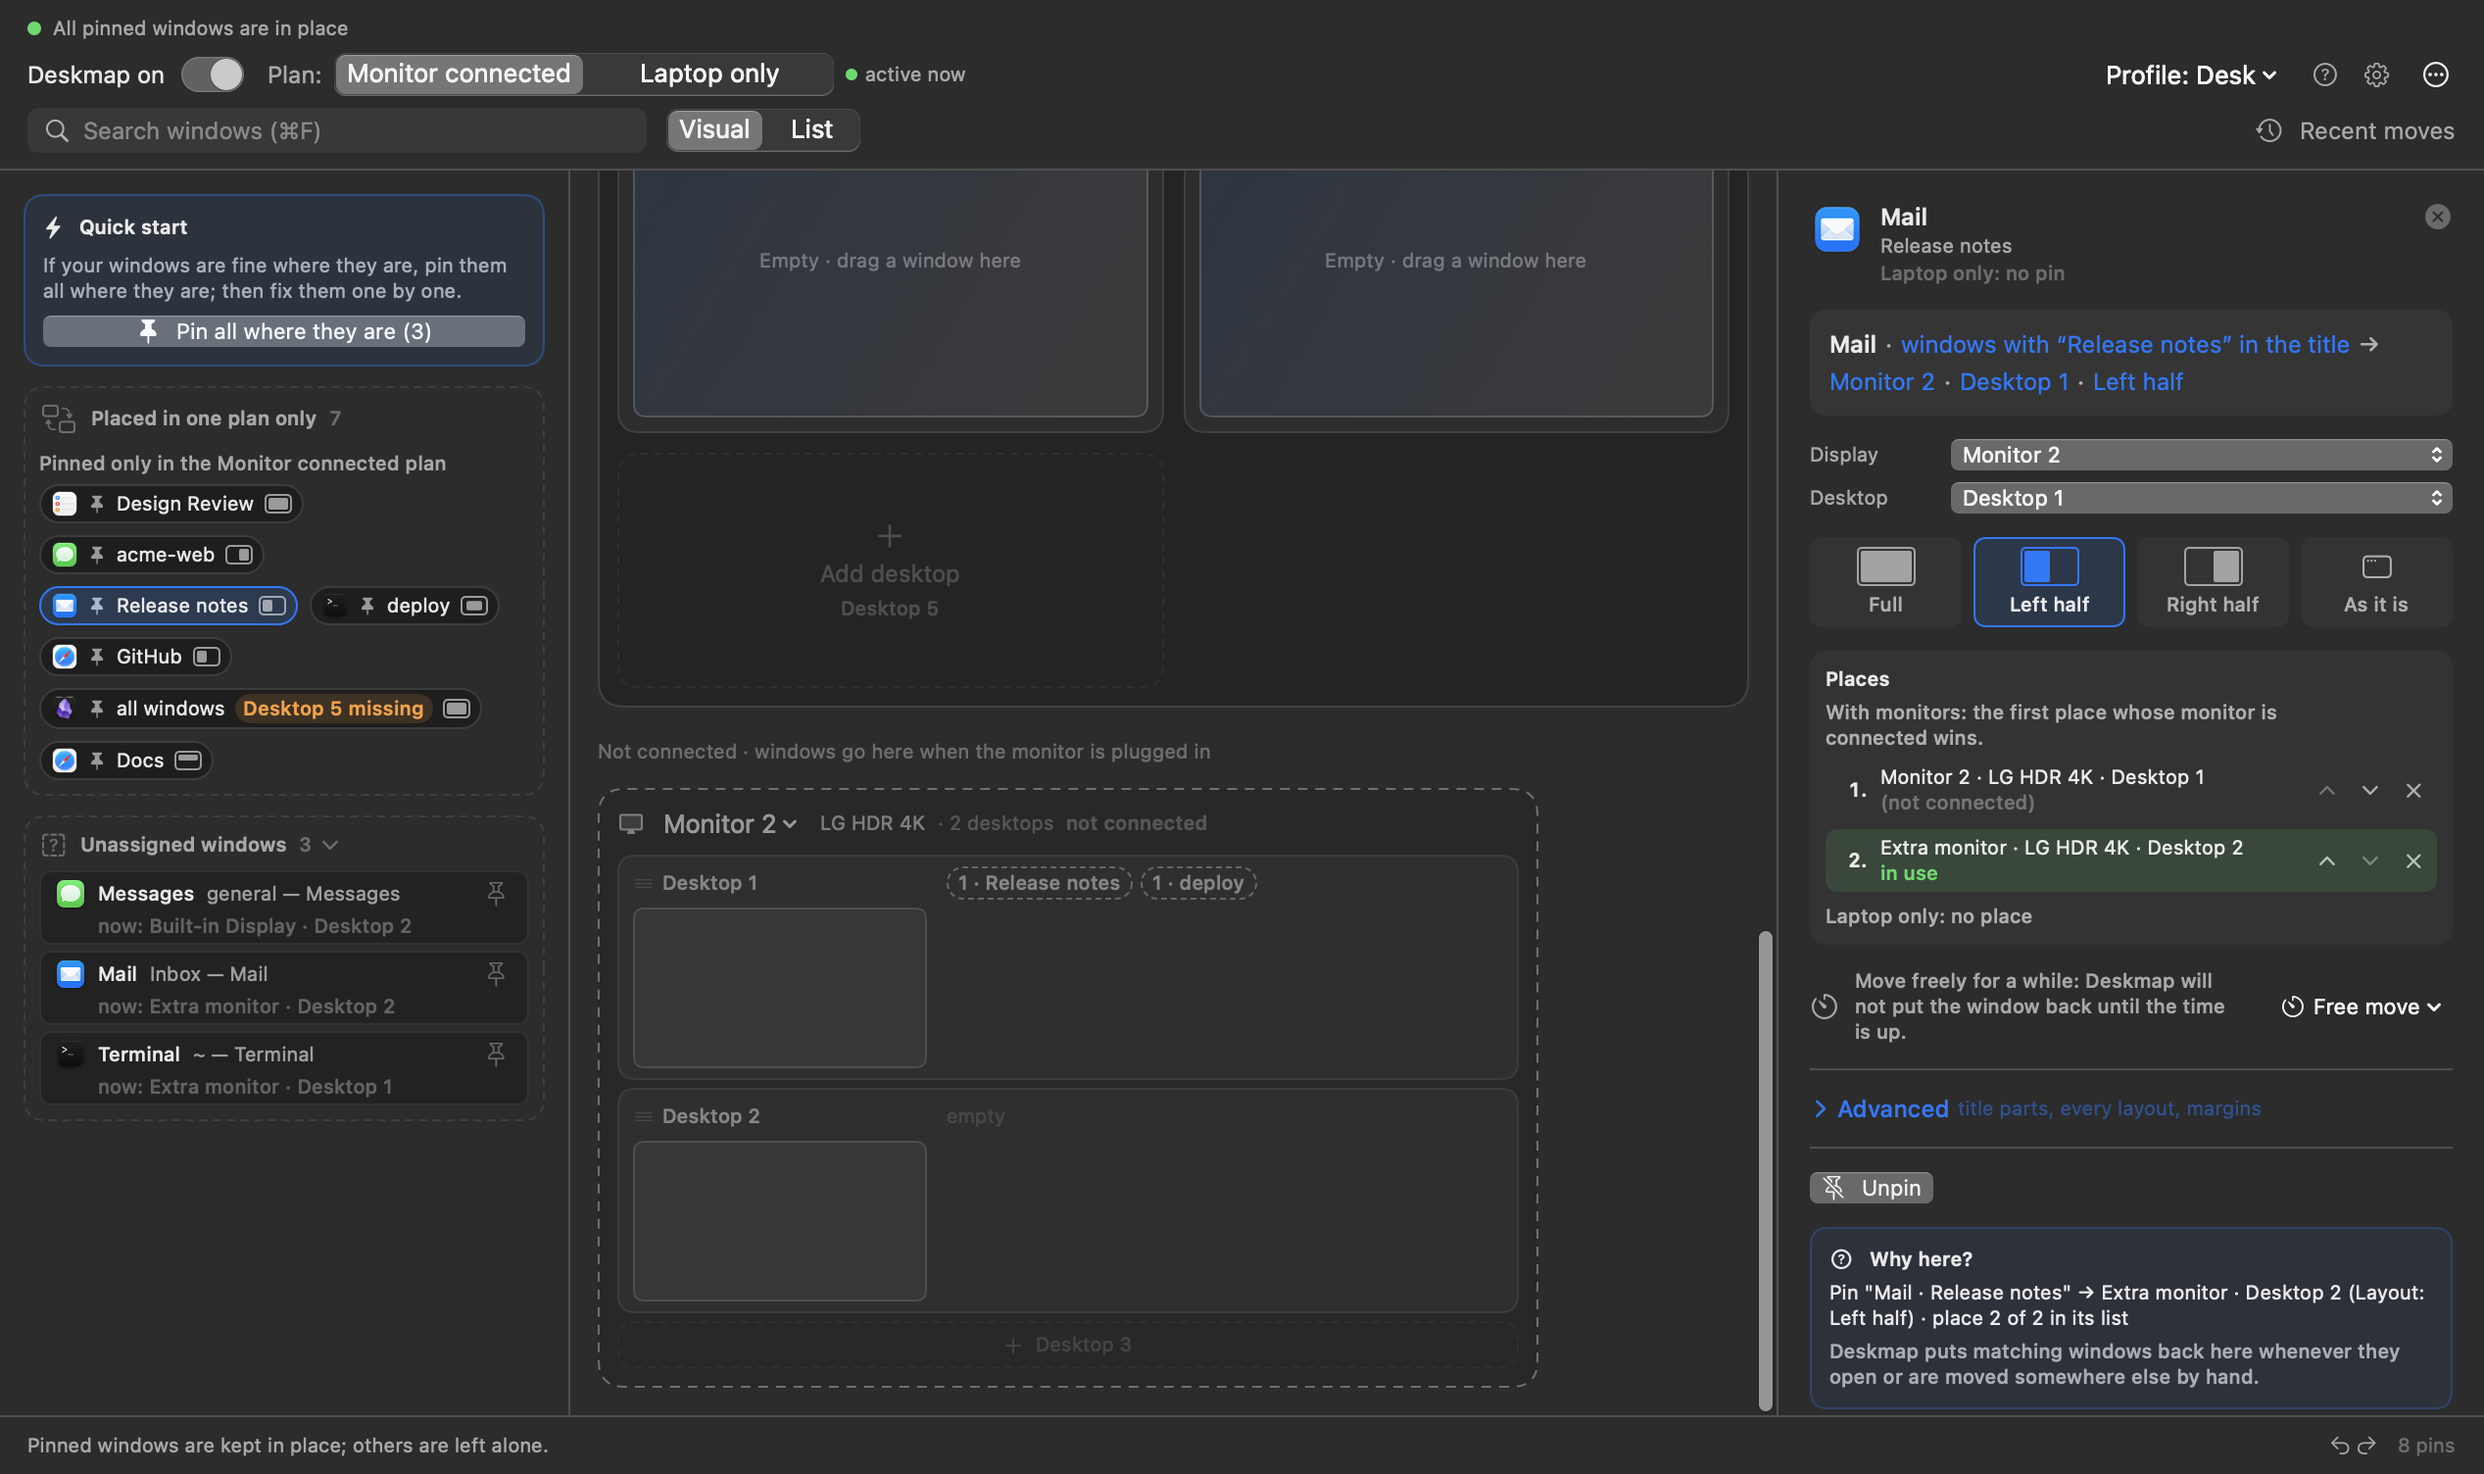
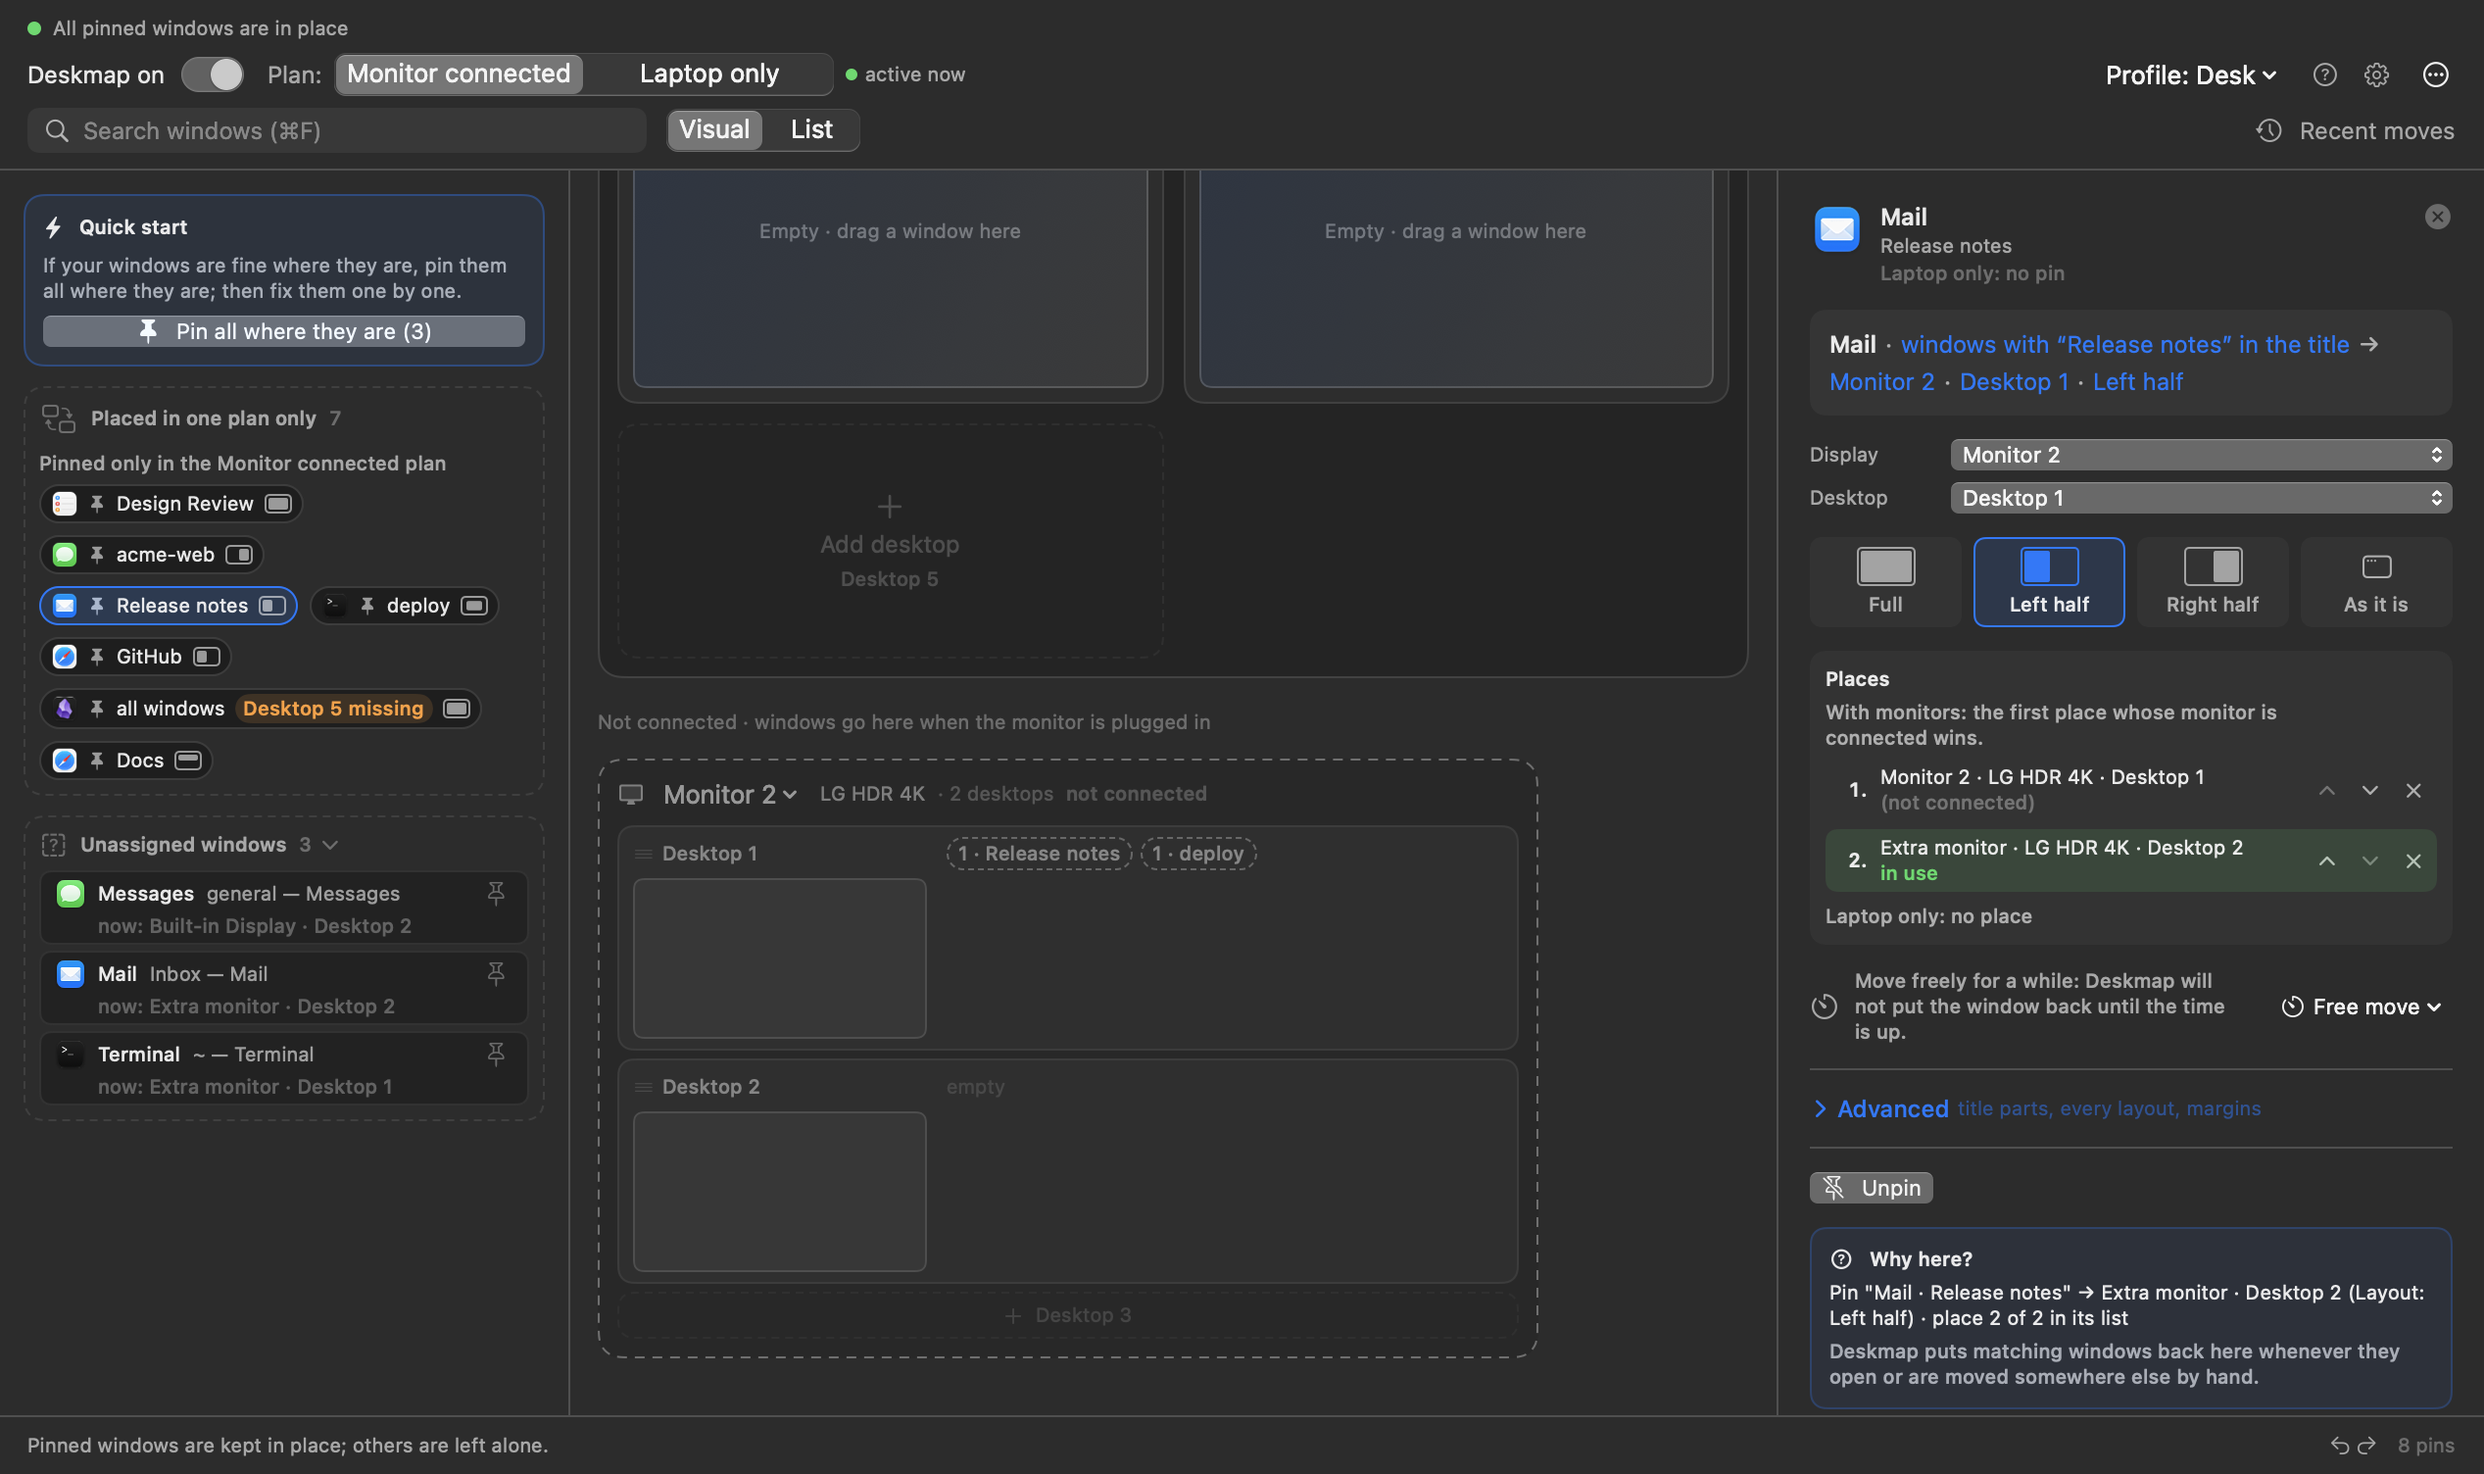
Docs: unplugged monitor keeps its card while a new one waits (EN + TR)

diff --git a/docs/kilavuz.md b/docs/kilavuz.md
@@ -200,6 +200,11 @@ ona hiçbir şey taşınmaz. **Sıranın sonuna ekle** ona ötekilerden sonra ke
 
 ![Yeni monitör bekler: Sıranın sonuna ekle ya da Yerine geç…](images/tr/m3-held-monitor.png)
 
+Bekleyen monitör takılı olmayan bir monitörün rolündeyse o monitör kendi soluk kartını ve
+sabitlemelerini korur.
+
+![Takılı olmayan monitör, rolünde yeni bir monitör beklerken de kartını korur](images/tr/m3b-held-monitor-away-card.png)
+
 Birini kur, geç, diğerini kur. Monitörü taktığında ya da çıkardığında
 uygulama ekranların yatışmasını birkaç saniye bekler, sonra o planın dediği
 yere her sabit pencereyi yerleştirir.

diff --git a/docs/guide.md b/docs/guide.md
@@ -195,6 +195,11 @@ monitor Deskmap knows. Both ask first.
 
 ![A new monitor waits: Add to the end or Replace…](images/en/m3-held-monitor.png)
 
+If the waiting monitor sits in the role of a monitor that is unplugged, that
+monitor keeps its own faded card with its own pins.
+
+![The unplugged monitor keeps its card while a new one waits in its role](images/en/m3b-held-monitor-away-card.png)
+
 Set up one, switch, set up the other. When you plug the monitor in or pull
 it out, the app waits a couple of seconds for the displays to settle and
 then puts every pinned window where that plan says.
